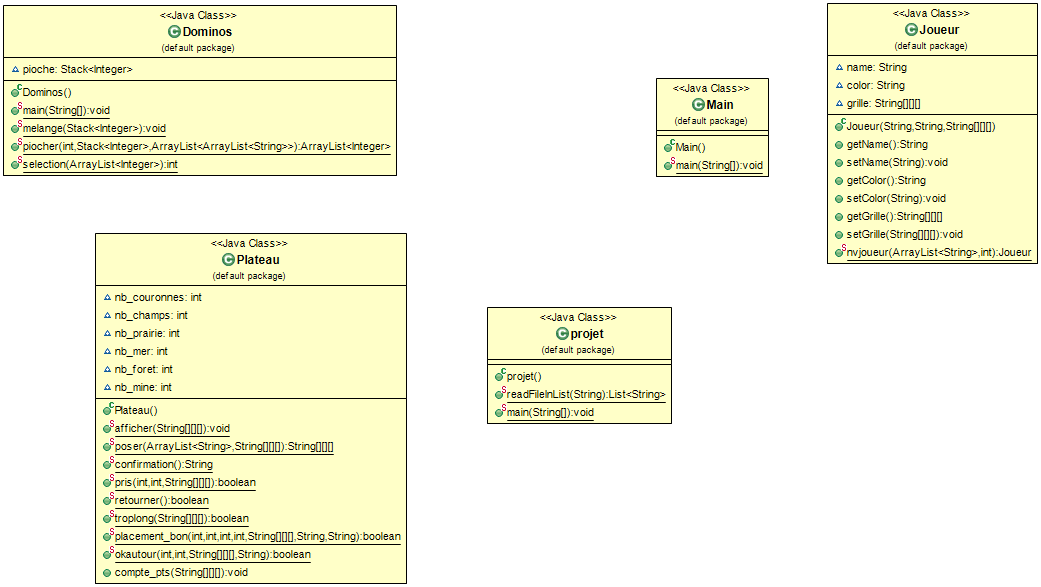
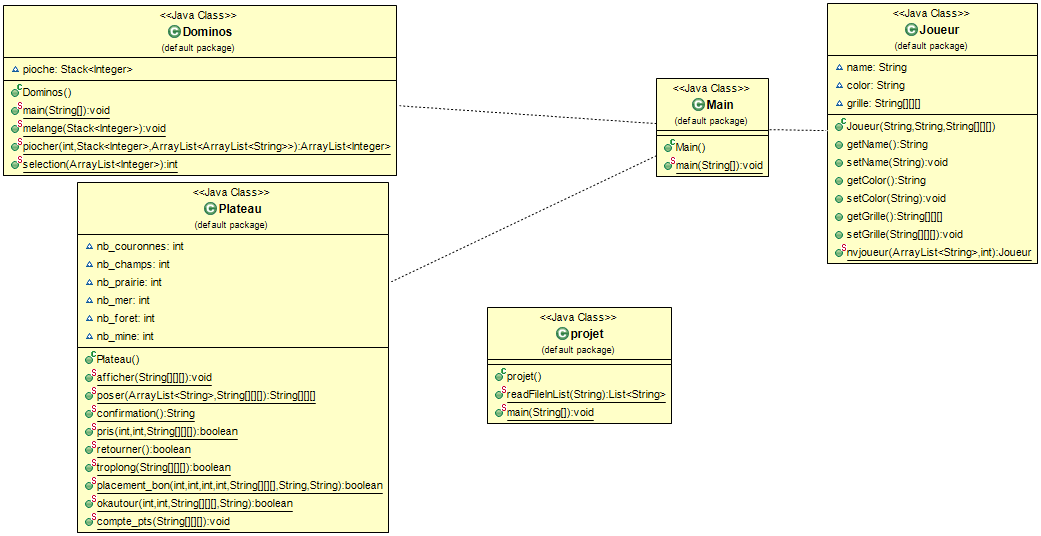
Décompte static et UML

diff --git a/src/Plateau.java b/src/Plateau.java
@@ -318,7 +318,7 @@ public class Plateau {
 	//static dominos.terrain
 	// non static dominos.getTerrain()
 	
-	public void compte_pts(String[][][] grille){
+	public static void compte_pts(String[][][] grille){
 		ArrayList<ArrayList<ArrayList<Integer>>> indexParType = new ArrayList<ArrayList<ArrayList<Integer>>>(6);
 		String[] terrainType = {"Champs","Foret","Mer","Prairie","Mine","Montagne"};
 		for (int type=0; type<6 ; type++) {
